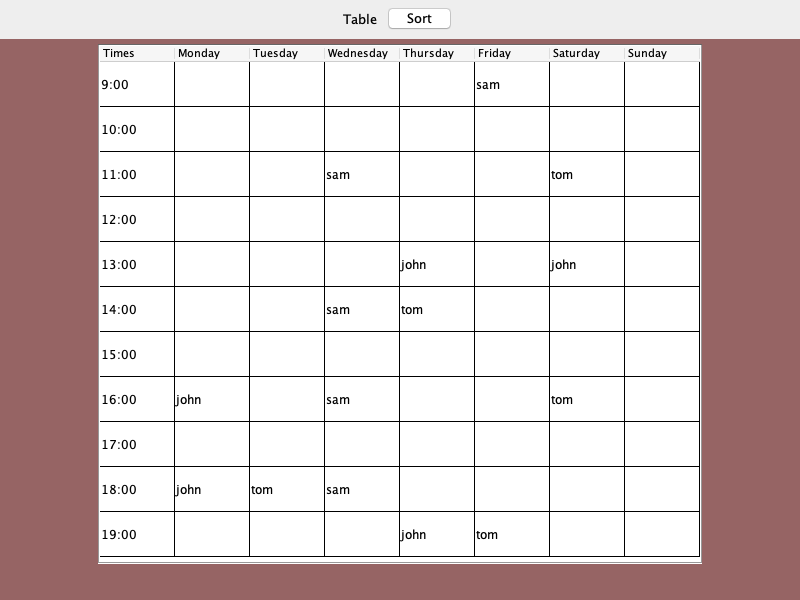
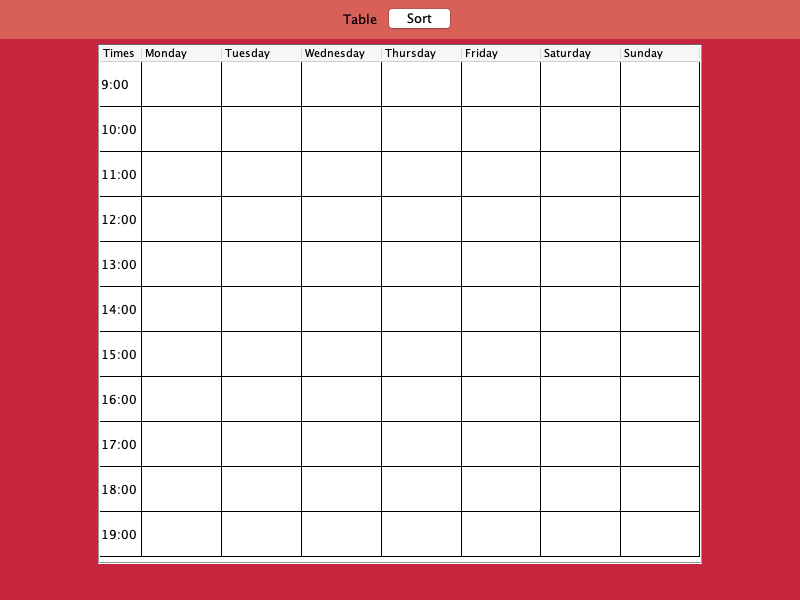
v1.1 | Fixed some issues
- UI improved.
- User can edit new user from editPane when user writes new name.
- Added hours input in tablePane. It possible costumised tables.
- Added some error notifications when user does somethign wrong.

diff --git a/main/EditPane.java b/main/EditPane.java
@@ -3,14 +3,23 @@ import java.awt.Color;
 import java.awt.GridLayout;
 import java.awt.event.ActionEvent;
 import java.awt.event.ActionListener;
+import java.awt.event.ItemEvent;
+import java.awt.event.ItemListener;
+import java.time.LocalTime;
+import java.time.format.DateTimeFormatter;
 import java.util.ArrayList;
+import java.util.Collections;
+import java.util.Comparator;
 import java.util.HashMap;
+import java.util.HashSet;
 
 import javax.swing.*;
 
 public class EditPane extends JPanel {
     
-    private HashMap<String,ArrayList<String>> data;
+    private HashMap<String,HashSet<String>> data;
+    private DateTimeFormatter formatter = DateTimeFormatter.ofPattern("H:mm");
+    private int countDays = 0;
     private MainPanel mainPanel;
     private JTextField name;
     private JPanel checkBoxPanelL, checkBoxPanelR, checkBoxPane, submitPanel;
@@ -21,7 +30,7 @@ public class EditPane extends JPanel {
 
     EditPane(MainPanel mainPanel){
         this.mainPanel = mainPanel;
-        setBackground(Color.CYAN);
+        setBackground(new Color(140, 48, 97));
         setLayout(new BorderLayout());
         //setPreferredSize(new Dimension(400,300));
         initialization();
@@ -51,15 +60,21 @@ public class EditPane extends JPanel {
     }
 
     private void submitFunc(){
-        ArrayList<User> users = mainPanel.userPane.getUsers();
+        User[] users = mainPanel.userPane.getUsers().toArray(new User[0]);
         // Find current user
         String nameStr = name.getText().toLowerCase();
         for (User user : users) {
-            if (nameStr.equals(user.name)){
+            if (user.name.equals(nameStr)){
                 user.setData(data);
                 break;
             }
         }
+        User newUser = new User(nameStr);
+        if (!mainPanel.userPane.getUsers().contains(newUser)) {
+            mainPanel.userPane.addNewUser(newUser);
+            newUser.setData(data);
+        }
+    
         JOptionPane.showMessageDialog(mainPanel.editFrame,"Succesfully Added");
         // Setting default values
         data.clear();
@@ -71,28 +86,26 @@ public class EditPane extends JPanel {
         name.setText("Write name");
         update();
     }
-    private void addBusyFunc(){ 
-        int countDays = 0;
+    private void addBusyFunc() {
         String dayName = "";
         for (JCheckBox boxDays : checkBoxDays) {
             if (boxDays.isSelected()) {
                 dayName = boxDays.getText();
-                countDays++;
-            }
-            else if (countDays > 1) {
+            } else if (countDays > 1) {
                 JOptionPane.showMessageDialog(mainPanel.editFrame, "Please select only one day !");
                 return;
             }
         }
         for (JCheckBox boxHours : checkBoxHours) {
             if (boxHours.isSelected()) {
-                if (!(data.containsKey(dayName)))
-                    data.put(dayName, new ArrayList<>());
-                data.get(dayName).add(boxHours.getText());
+                data.computeIfAbsent(dayName, k -> new HashSet<>()).add(boxHours.getText());
             }
         }
-        String message = name.getText() +  " | " + data.get(dayName);
-        JOptionPane.showMessageDialog(mainPanel.editFrame,message);
+
+        ArrayList<String> timeList = new ArrayList<>(data.get(dayName));
+        Collections.sort(timeList, Comparator.comparing(time -> LocalTime.parse(time,formatter)));
+        String message = name.getText() + " | " + dayName + ": " + timeList;
+        JOptionPane.showMessageDialog(mainPanel.editFrame, message);
         update();
     }
 
@@ -107,11 +120,18 @@ public class EditPane extends JPanel {
         checkBoxPanelL.setLayout(new BoxLayout(checkBoxPanelL, BoxLayout.Y_AXIS));
         checkBoxPanelR.setLayout(new BoxLayout(checkBoxPanelR, BoxLayout.Y_AXIS));
         checkBoxPane.setLayout(new GridLayout(1, 2));
+        checkBoxPanelL.setBackground(new Color(217, 95, 89));
+        checkBoxPanelR.setBackground(new Color(217, 95, 89));
         checkBoxDays = new JCheckBox[busyDays.length];
         checkBoxHours = new JCheckBox[busyHours.length];
 
         for (int i = 0; i < checkBoxDays.length; i++){
             checkBoxDays[i] = new JCheckBox(busyDays[i]);
+            checkBoxDays[i].addItemListener(new ItemListener() {
+                public void itemStateChanged(ItemEvent e){
+                    countDays = e.getStateChange() == 1 ? countDays + 1 : countDays - 1;
+                }
+            });
             checkBoxPanelL.add(checkBoxDays[i]);
         }
         for (int i = 0; i < checkBoxHours.length; i++) {
@@ -124,6 +144,7 @@ public class EditPane extends JPanel {
         
         //Buttons
         submitPanel = new JPanel();
+        submitPanel.setBackground(new Color(217, 95, 89));
         submit = new JButton("Submit");
         addBusy = new JButton("Add Days");
         submitPanel.add(submit);

diff --git a/main/TablePane.java b/main/TablePane.java
@@ -5,6 +5,7 @@ import java.awt.event.ActionEvent;
 import java.awt.event.ActionListener;
 import java.util.ArrayList;
 import java.util.HashMap;
+import java.util.HashSet;
 import java.util.Random;
 
 import javax.swing.*;
@@ -14,13 +15,14 @@ import javax.swing.table.DefaultTableModel;
 public class TablePane extends JPanel {
 
     private MainPanel mainPanel;
+    private int hours = 5;
     private String[][] emptyRows;
     private JTable table;
     private JPanel tablePanel ,buttonsPanel;
     private DefaultTableModel model;
     private JScrollPane scroll;
     private JButton sortButton;
-    private JLabel label;
+    private JTextArea inputHours;
     private String[] col;
     private ArrayList<User> users;
     private HashMap<Integer,String> mapTimeIndex;
@@ -28,21 +30,28 @@ public class TablePane extends JPanel {
     
     TablePane(MainPanel mainPanel){
         this.mainPanel = mainPanel;
+        this.inputHours = new JTextArea("Enter Hour");
         this.tablePanel = new JPanel();
         this.buttonsPanel = new JPanel();
         this.sortButton = new JButton("Sort");
         sortButton.addActionListener(new ActionListener() {
             public void actionPerformed(ActionEvent e){
+                if (mainPanel.userPane.getUsers().isEmpty()) {
+                    JOptionPane.showMessageDialog(mainPanel,"First upload a file or add a new user from edit page");
+                    return;
+                }
                 sortAlgorithm();
             }
         });
 
-        setBackground(new Color(150,100,100));
-        tablePanel.setBackground(new Color(150,100,100));
+        setBackground(new Color(199, 37, 62));
+        tablePanel.setBackground(new Color(199, 37, 62));
+        buttonsPanel.setBackground(new Color(217, 95, 89));
         setLayout(new BorderLayout());
         
-        label = new JLabel("Table");
-        buttonsPanel.add(label);
+        inputHours.setPreferredSize(new Dimension(150, 20));
+        
+        buttonsPanel.add(inputHours);
         buttonsPanel.add(sortButton);
 
         mapTimeIndex = timeToIndex();
@@ -100,13 +109,20 @@ public class TablePane extends JPanel {
         // Index : [X][0] = Time, [X][1...7] = Days (Monday,Tuesday,Wednesday,...); 
         // Index : [0][X] = 9:00, [1][X] = 10:00 , ...
         // 11 rows , 9 columns
+        try {
+            hours = Integer.parseInt(inputHours.getText());
+        } catch (Exception e) {
+            JOptionPane.showMessageDialog(mainPanel,"Please enter a valid number");
+            return;
+        }
         boolean[][] isEmptyCell = new boolean[11][9];
         int[] screenTime = new int[users.size()]; 
         for(int i = 0; i < users.size(); i++)
-            screenTime[i] = 5;
+            screenTime[i] = hours;
         int userIndex = 0;
-        User currUser = users.get(userIndex);
-        int totalScreenTime = users.size() * 5;
+        User[] usersArr = users.toArray(new User[0]);
+        User currUser = usersArr[userIndex];
+        int totalScreenTime = users.size() * hours;
         Random random = new Random();
         int errorChecker = 0;
         int i, j;
@@ -114,14 +130,16 @@ public class TablePane extends JPanel {
         while(totalScreenTime != 0){
             if (errorChecker > 10000) { // Value can be change
                 JOptionPane.showMessageDialog(this, "Program can't change anything anymore");
-                break;
+                model.setDataVector(emptyRows, col);
+                table.setModel(model);
+                return;
             }
 
             i = random.nextInt(11);
             j = random.nextInt(1,8);
 
-            if (screenTime[userIndex] == 0 && userIndex < users.size() - 1){
-                currUser = users.get(++userIndex);
+            if (screenTime[userIndex] == 0 && userIndex < usersArr.length - 1){
+                currUser = usersArr[++userIndex];
             }
 
             if (isEmptyCell[i][j] == false && copyTable[i][j].equals("")) {
@@ -132,7 +150,7 @@ public class TablePane extends JPanel {
                     totalScreenTime--;
                 }
                 else{
-                    ArrayList<String> timeStr = currUser.busyDays.get(mapDayIndex.get(j));
+                    HashSet<String> timeStr = currUser.busyDays.get(mapDayIndex.get(j));
                     if (!timeStr.contains(mapTimeIndex.get(i))) {
                         copyTable[i][j] = currUser.name;
                         screenTime[userIndex]--;

diff --git a/main/UserPane.java b/main/UserPane.java
@@ -2,9 +2,17 @@ import java.awt.Color;
 import java.awt.BorderLayout;
 import java.awt.Dimension;
 import java.awt.GridLayout;
+import java.util.List;
 import java.awt.event.ActionEvent;
 import java.awt.event.ActionListener;
+import java.time.LocalTime;
+import java.time.format.DateTimeFormatter;
 import java.util.ArrayList;
+import java.util.Arrays;
+import java.util.Collections;
+import java.util.Comparator;
+import java.util.HashSet;
+import java.util.LinkedHashMap;
 import java.util.Map;
 
 import javax.swing.*;
@@ -13,6 +21,7 @@ import javax.swing.*;
 public class UserPane extends JPanel {
 
     private ArrayList<User> users;
+    private DateTimeFormatter formatter = DateTimeFormatter.ofPattern("H:mm");
     private DefaultListModel<User> listModel;
     private MainPanel mainPanel;
     private JList<User> usersList;
@@ -32,7 +41,7 @@ public class UserPane extends JPanel {
         });
         leftPanel.add(topLabel, BorderLayout.NORTH);
         leftPanel.add(scrollPane, BorderLayout.CENTER);
-        rightPanel.setBackground(new Color(70,200,250));
+        rightPanel.setBackground(new Color(217, 95, 89));
         rightPanel.add(showInfo);
         add(leftPanel, BorderLayout.WEST);
         add(rightPanel, BorderLayout.EAST);
@@ -62,9 +71,20 @@ public class UserPane extends JPanel {
 
     private void showInfoFunc(User selectedUser){
         String message = selectedUser.name + "\'s Busy Days & Hours: \n";
-        for (Map.Entry<String,ArrayList<String>> e: selectedUser.busyDays.entrySet()) {
+        List<String> dayOrder = new ArrayList<>(Arrays.asList(
+            "Monday", "Tuesday", "Wednesday", "Thursday", "Friday", "Saturday", "Sunday"
+        ));        
+        List<String> sortedKeys = new ArrayList<>(selectedUser.busyDays.keySet());
+        sortedKeys.sort(Comparator.comparingInt(dayOrder::indexOf));
+        LinkedHashMap<String,HashSet<String>> newMap = new LinkedHashMap<>();
+        for (String day : sortedKeys)
+            newMap.put(day, selectedUser.busyDays.get(day));
+
+        for (Map.Entry<String,HashSet<String>> e: newMap.entrySet()) {
             message += e.getKey() + "->";
-            for (String str : e.getValue()) {
+            ArrayList<String> timeList = new ArrayList<>(e.getValue());
+            Collections.sort(timeList, Comparator.comparing(time -> LocalTime.parse(time,formatter)));
+            for (String str : timeList) {
                 message += str + ", ";
             } 
             message += '\n';

diff --git a/main/User.java b/main/User.java
@@ -1,11 +1,11 @@
-import java.util.ArrayList;
 import java.util.HashMap;
+import java.util.HashSet;
 import java.util.Map;
 
 public class User {
 
     String name;
-    Map<String,ArrayList<String>> busyDays;
+    Map<String,HashSet<String>> busyDays;
 
     
     User(String name){
@@ -13,20 +13,28 @@ public class User {
         busyDays = new HashMap<>();
     }
 
-    public void setData(HashMap<String,ArrayList<String>> data){
+    public void setData(HashMap<String,HashSet<String>> data){
         // Gets from editPane
         if (busyDays.isEmpty()) {
             busyDays.putAll(data);
             return;
         }
 
-        for (Map.Entry<String,ArrayList<String>> entry : data.entrySet()) {
+        for (Map.Entry<String,HashSet<String>> entry : data.entrySet()) {
             if (busyDays.containsKey(entry.getKey())) {
                 for (String str : entry.getValue()) {
                     busyDays.get(entry.getKey()).add(str);
                 }
             }
+            else{
+                busyDays.put(entry.getKey(),entry.getValue());
+            }   
         }
+    }
+
+    @Override
+    public boolean equals(Object obj) {
+        return this.toString().equals(obj.toString());
     }
 
     @Override

diff --git a/main/FileUploader.java b/main/FileUploader.java
@@ -1,5 +1,5 @@
 import java.io.File;
-import java.util.ArrayList;
+import java.util.HashSet;
 import java.util.Scanner;
 
 import javax.swing.JFileChooser;
@@ -44,7 +44,7 @@ public class FileUploader {
 
                 for (int i = 1; i < words.length; i++) {
                     if (!newUser.busyDays.containsKey(day)) {
-                        newUser.busyDays.put(day, new ArrayList<>());
+                        newUser.busyDays.put(day, new HashSet<>());
                     }
                     newUser.busyDays.get(day).add(words[i]);
                 }

diff --git a/main/Main.java b/main/Main.java
@@ -5,6 +5,4 @@ public class Main{
 }
 
 // Notes for Developer
-// Low Priority : Redesign JList in useraPane to get new Users when added in editPane
-// Low Priority : Sort the days of the busyHours when show information clicked. 
 // Bug : When user resize the window page userList components not flexible.
